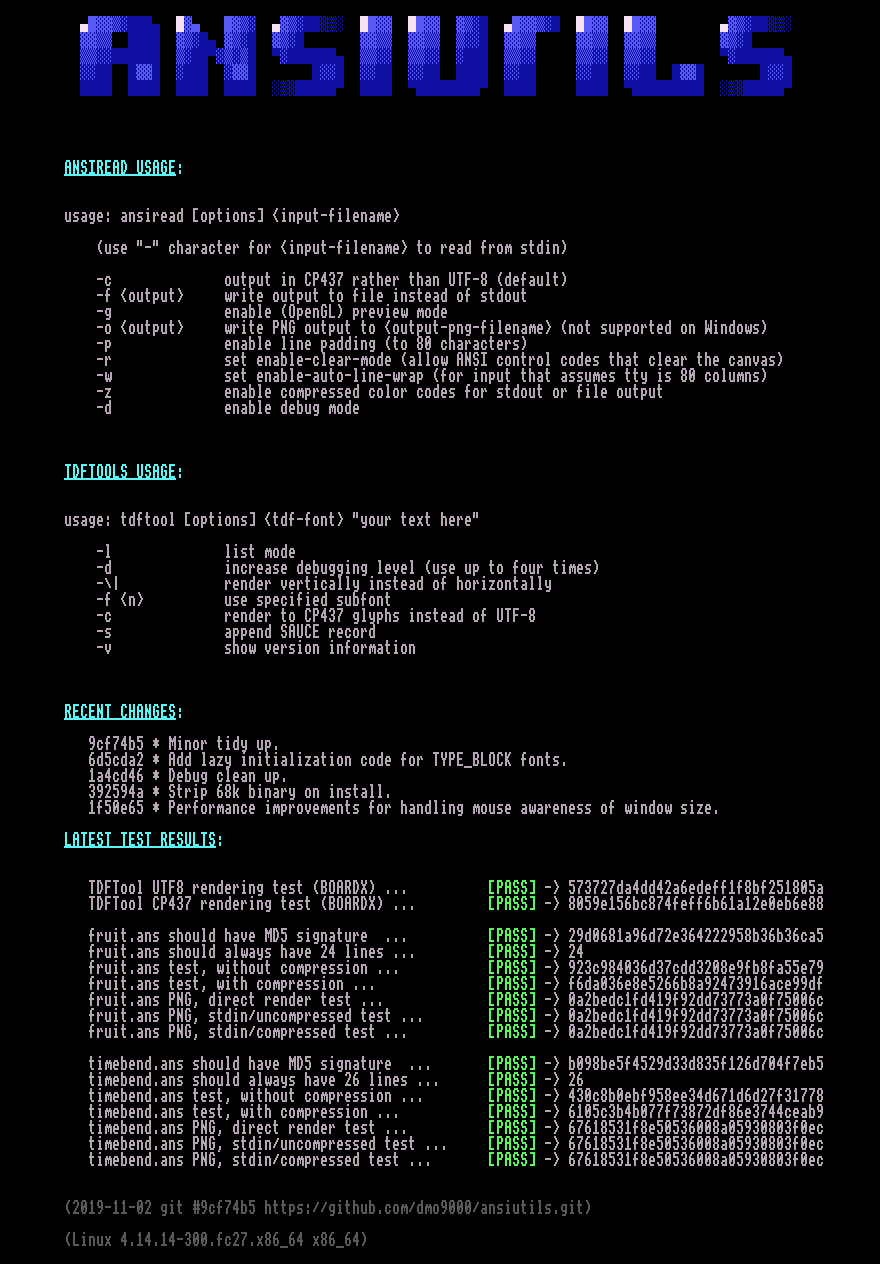
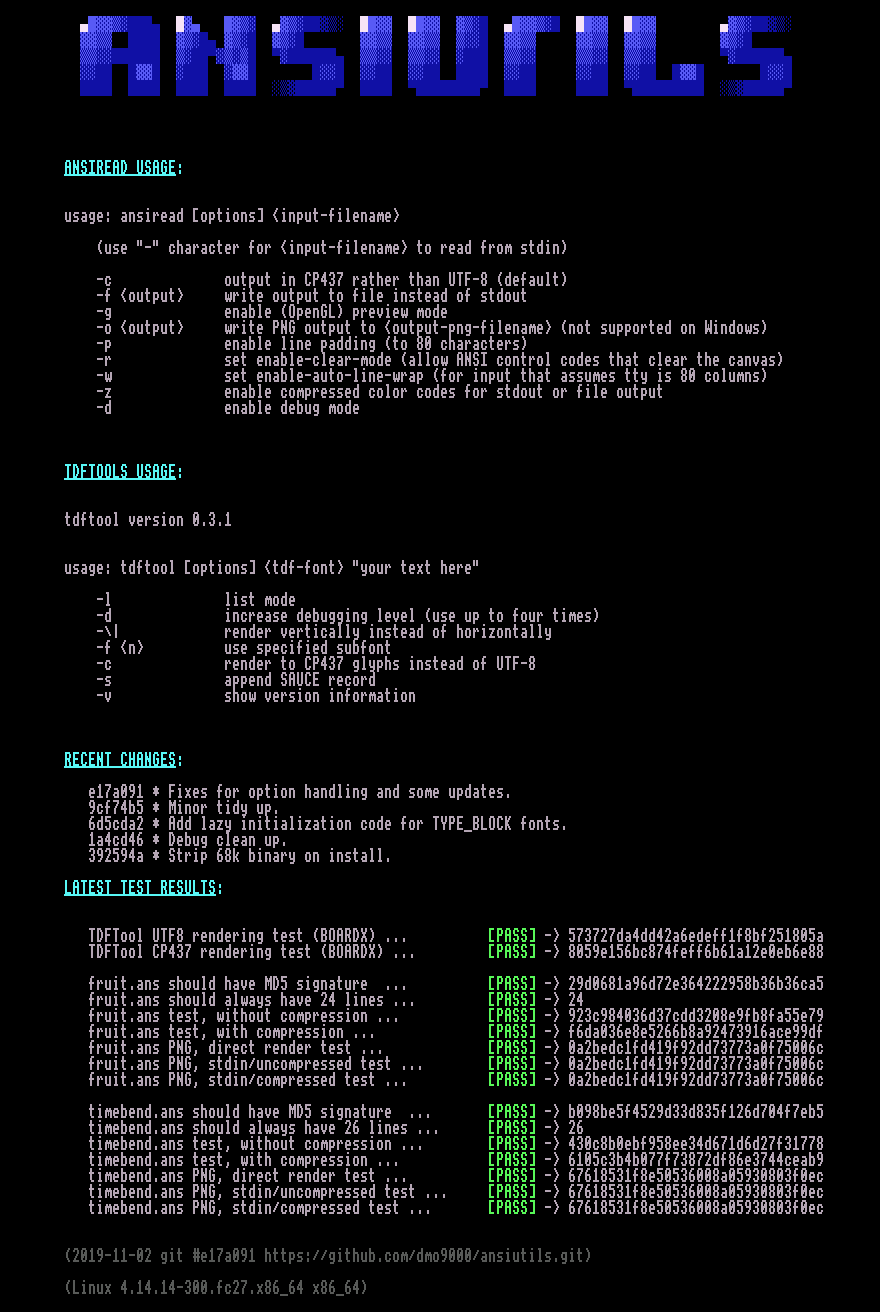
Minor cleanups.

diff --git a/ansiutils.html b/ansiutils.html
@@ -39,6 +39,9 @@
 
 	<span style="color:aqua;"></span><span style="text-decoration:underline;color:aqua;"></span><span style="text-decoration:underline;font-weight:bold;color:aqua;">TDFTOOLS USAGE</span><span style="font-weight:bold;color:aqua;">:</span><span style="color:aqua;"></span>
 
+<span style="color:white;background-color:black;">        </span>
+<span style="color:white;background-color:black;">        tdftool version 0.3.1</span>
+<span style="color:white;background-color:black;">        </span>
 <span style="color:white;background-color:black;">                                                                           </span>
 <span style="color:white;background-color:black;">        usage: tdftool [options] &lt;tdf-font&gt; &quot;your text here&quot;</span>
 <span style="color:white;background-color:black;">        </span>
@@ -54,11 +57,11 @@
 
 	<span style="color:aqua;"></span><span style="text-decoration:underline;color:aqua;"></span><span style="text-decoration:underline;font-weight:bold;color:aqua;">RECENT CHANGES</span><span style="font-weight:bold;color:aqua;">:</span><span style="color:aqua;"></span>
 
+<span style="color:white;background-color:black;">           e17a091 * Fixes for option handling and some updates.</span>
 <span style="color:white;background-color:black;">           9cf74b5 * Minor tidy up.</span>
 <span style="color:white;background-color:black;">           6d5cda2 * Add lazy initialization code for TYPE_BLOCK fonts.</span>
 <span style="color:white;background-color:black;">           1a4cd46 * Debug clean up.</span>
 <span style="color:white;background-color:black;">           392594a * Strip 68k binary on install.</span>
-<span style="color:white;background-color:black;">           1f50e65 * Performance improvements for handling mouse awareness of window size.</span>
 
 	<span style="color:aqua;"></span><span style="text-decoration:underline;color:aqua;"></span><span style="text-decoration:underline;font-weight:bold;color:aqua;">LATEST TEST RESULTS</span><span style="font-weight:bold;color:aqua;">:</span><span style="color:aqua;"></span>
 
@@ -83,7 +86,7 @@
 <span style="color:white;background-color:black;">           timebend.ans PNG, stdin/compressed test ...       </span><span style="color:lime;background-color:black;"></span><span style="font-weight:bold;color:lime;background-color:black;">[PASS]</span><span style="font-weight:bold;color:white;background-color:black;"></span><span style="color:white;background-color:black;"> -&gt; 67618531f8e50536008a05930803f0ec </span>
 <span style="color:white;background-color:black;">           </span>
 
-	<span style="color:dimgray;"></span><span style="font-weight:bold;color:dimgray;">(2019-11-02 git #9cf74b5 https://github.com/dmo9000/ansiutils.git)</span><span style="color:dimgray;"></span>
+	<span style="color:dimgray;"></span><span style="font-weight:bold;color:dimgray;">(2019-11-02 git #e17a091 https://github.com/dmo9000/ansiutils.git)</span><span style="color:dimgray;"></span>
 
 	<span style="color:dimgray;"></span><span style="font-weight:bold;color:dimgray;">(Linux 4.14.14-300.fc27.x86_64 x86_64)</span><span style="color:dimgray;"></span>
                                                                                                               

diff --git a/tdftool.c b/tdftool.c
@@ -93,7 +93,7 @@ int main(int argc, char *argv[])
             }
             break;
 				case 'v':
-						printf("tdftool version %d.%d.%d\n\r", TDFTOOL_VER_MAJOR, TDFTOOL_VER_MINOR, TDFTOOL_VER_PATCH);
+						printf("\r\ntdftool version %d.%d.%d\n\r", TDFTOOL_VER_MAJOR, TDFTOOL_VER_MINOR, TDFTOOL_VER_PATCH);
 						exit(0);
 						break;
         case '|':
@@ -113,12 +113,12 @@ int main(int argc, char *argv[])
 
         case '?':
             if (isprint (optopt)) {
-                printf ("Unknown option `-%c'.\n\r", optopt);
+                printf ("unknown option '-%c'\n\r", optopt);
 								printf("\n\r");
                 exit(1);
             }
             else {
-                printf ("Unknown option character `\\x%x'.\n\r",
+                printf ("unknown option character '\\x%02x'\n\r",
                         optopt);
 								printf("\n\r");
 								usage();
